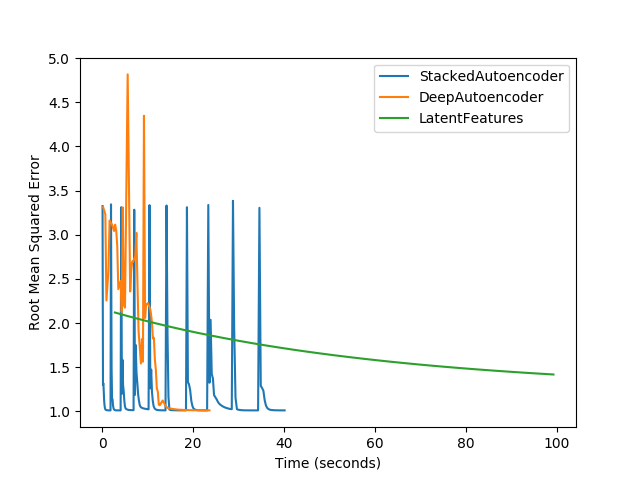
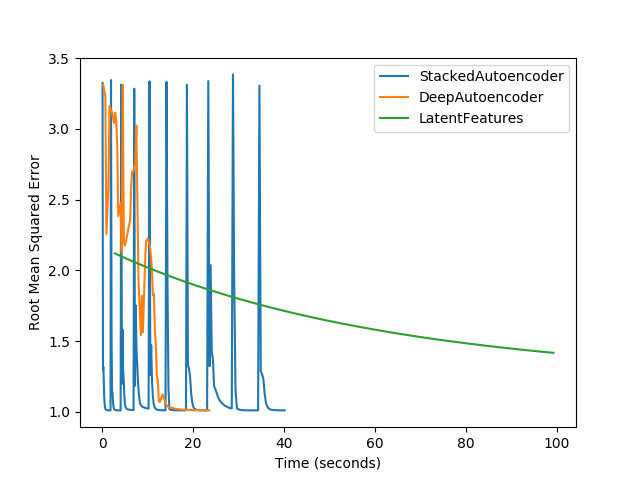
Time plots added

diff --git a/plotTime.py b/plotTime.py
@@ -7,7 +7,7 @@ plt.ioff()
 def plot_images(plot_data, labels, xlabel, ylabel, filename):
     refined_data = []
     for data in plot_data:
-        refined_data.append(list(filter(lambda x: x[0] < 100 and x[1] < 5, data)))
+        refined_data.append(list(filter(lambda x: x[0] < 100 and x[1] < 4, data)))
 
     plt.clf()
     for data, label in zip(refined_data, labels):
